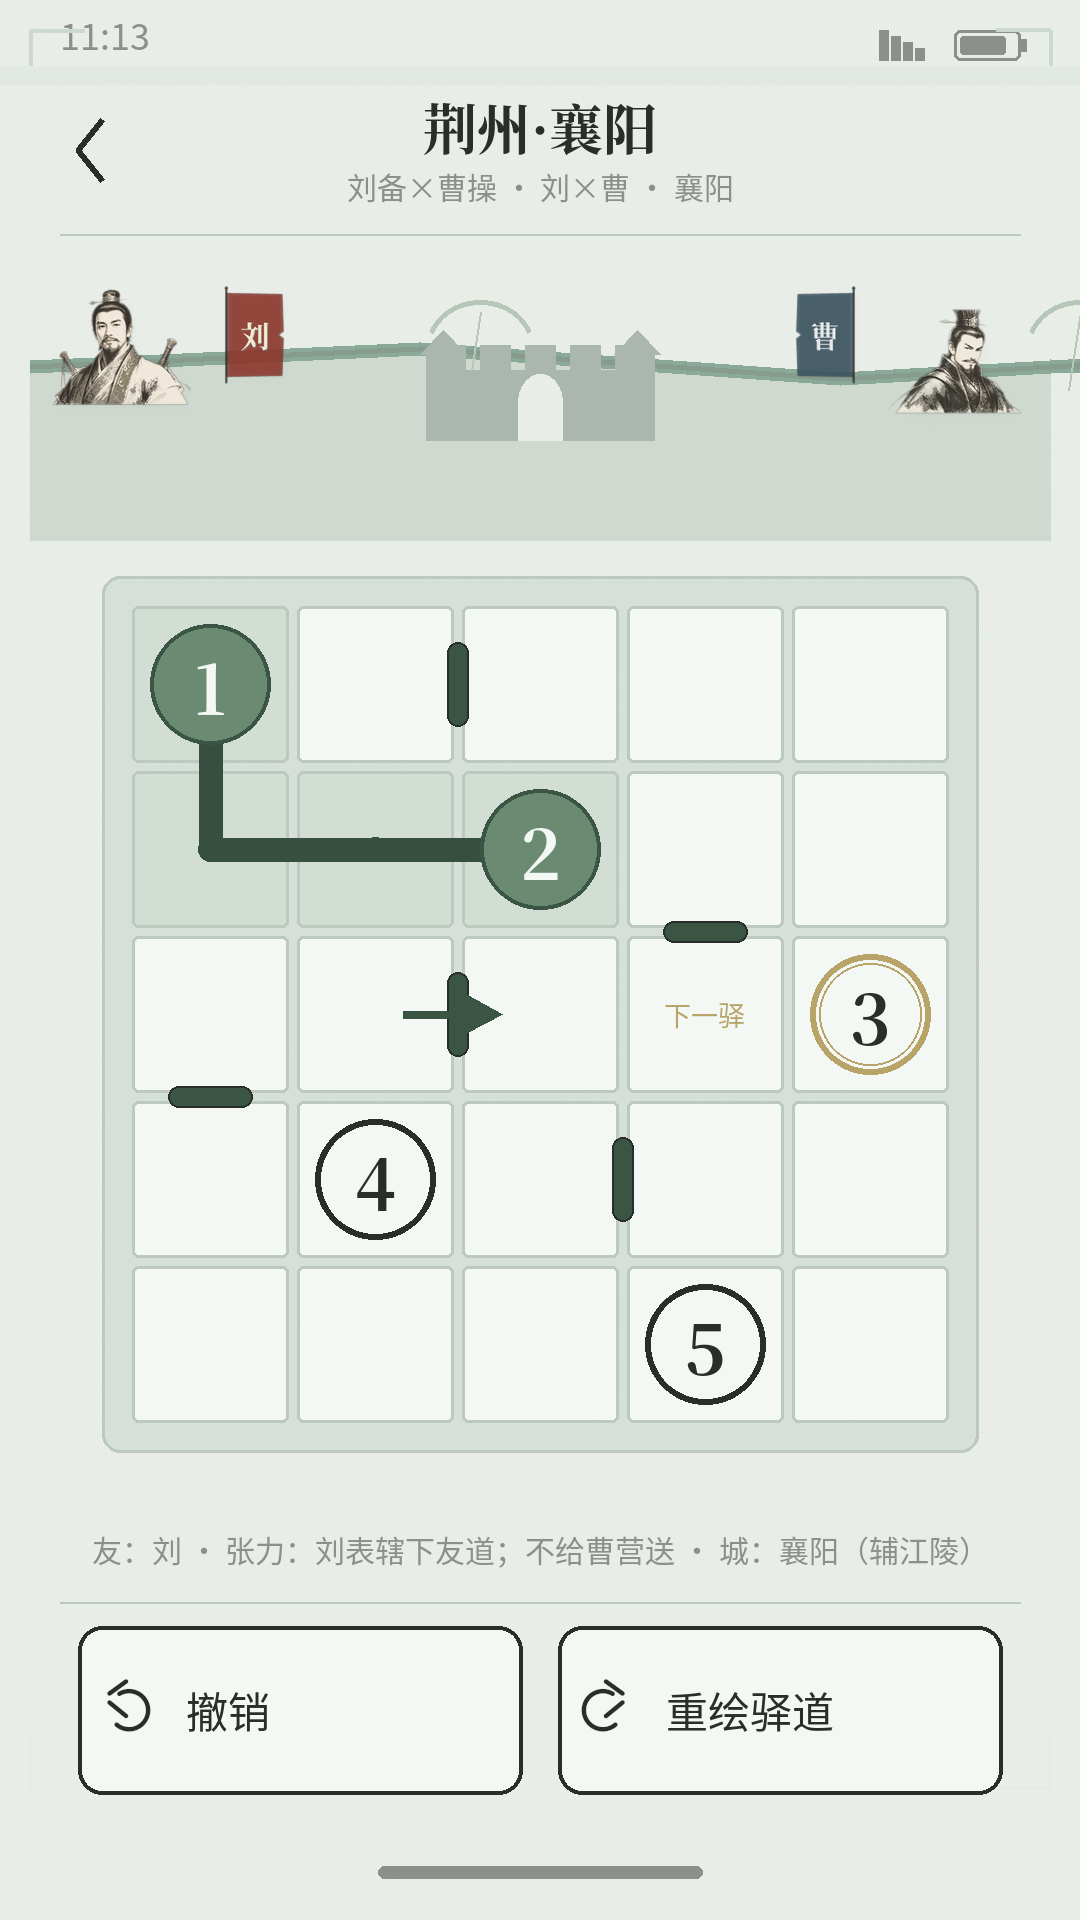
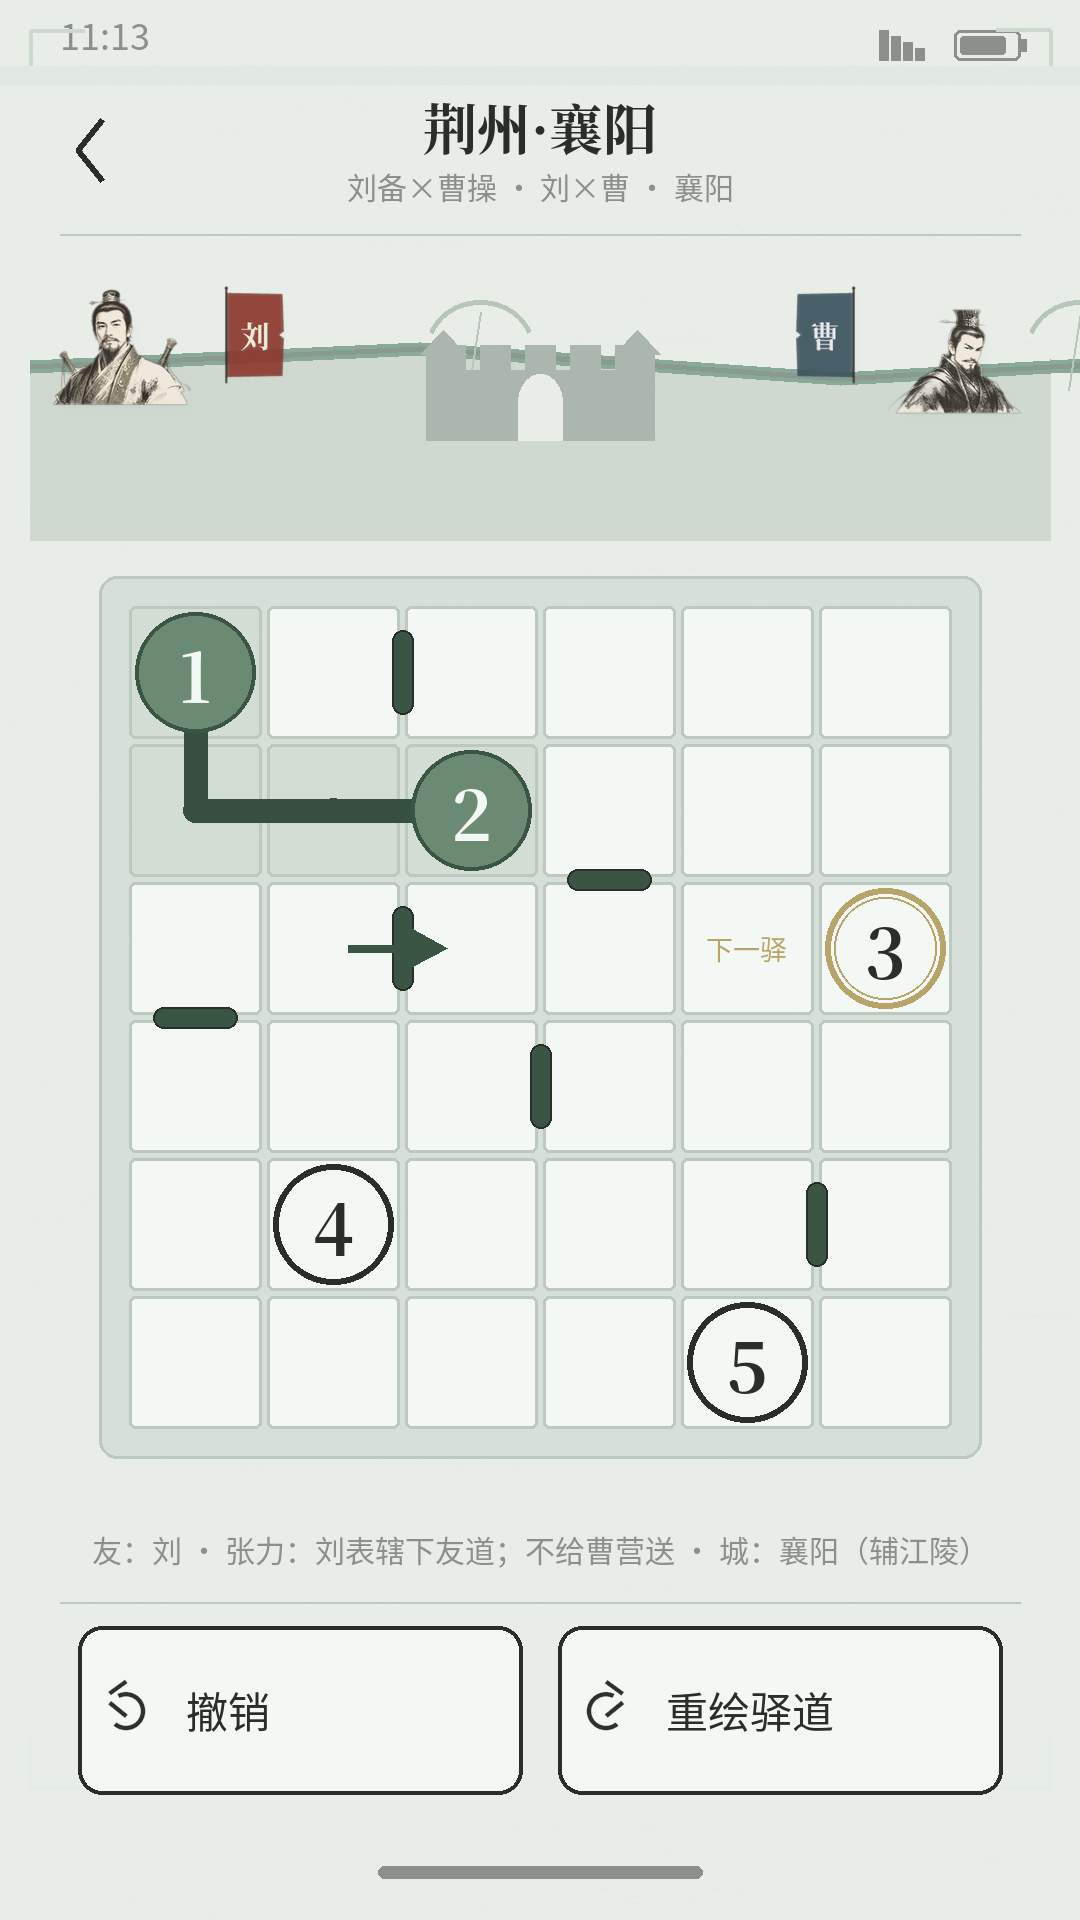
P1 polish: refresh 05–10 skins (09 dual-tone + illustrative 6×6).
Soft-approved overlay; lock logic unchanged.

Changed region(s): [[0.0917, 0.3125, 0.9167, 0.7812], [0.5194, 0.875, 0.5806, 0.9062], [0.0917, 0.875, 0.1528, 0.9062]]

diff --git a/mockups/chapter-skins-v9/ch05-10-SHIP.md b/mockups/chapter-skins-v9/ch05-10-SHIP.md
@@ -33,6 +33,7 @@
 ## 布局硬门禁（同 v9.1）
 
 - BOARD_OY_VP = 202；BUST 52×70 vp；FLAG 28×36 vp；BOARD_CLEAR = 10 vp
+- 示意盘 **6×6**（cell 44 / gut 2；对齐灌机 lock；非 5×5）
 - band.bottom ≤ board.top − BOARD_CLEAR；半身/旗/地貌不侵网格
 - 半身不压旗面字；08 右旗无「关」字（不读成关羽）
 - 复姓写全：诸葛 / 司马
@@ -52,8 +53,8 @@
 - 发明关卡盘 / 改前四盘
 - 复姓缩字；入蜀右挂曹脸
 
-## 复审补交（2026-09-07）
+## P1 抛光（非阻塞 · 2026-09-07）
 
-- 对照 P0 已修：`00-ch5-10-v91-compare.png` 现为拟合 2×3，**05–10 六章完整入画**（07/08 不再裁底，09/10 不再飞出）。
-- 脚本：`render_chapter_skins_v91_ch05_10.py` → `render_compare` 按剩余高度算 `cell_h`，断言六格底边在画布内。
-- 全屏/灰锁卡未改；仍禁 `flag-s01-guan.png`。
+- **09 双调加力**：`09-hanzhong-v91.png` 左/右分带洗色（秦岭冷石青 vs 滇池苔绿），中缝可读；右为滇池水带（非单绿椭圆点缀）。
+- **示意盘 6×6**：05–10 全屏 mock 网格由 5×5 改为 lock **6×6**（cell 44 / gut 2）；对照 `00-ch5-10-v91-compare.png` 仍 2×3 六章完整入画。
+- 未改 lock / 未挡灌机；08 右旗仍 `flag-gate-pattern.png`；诸葛/司马写全。
